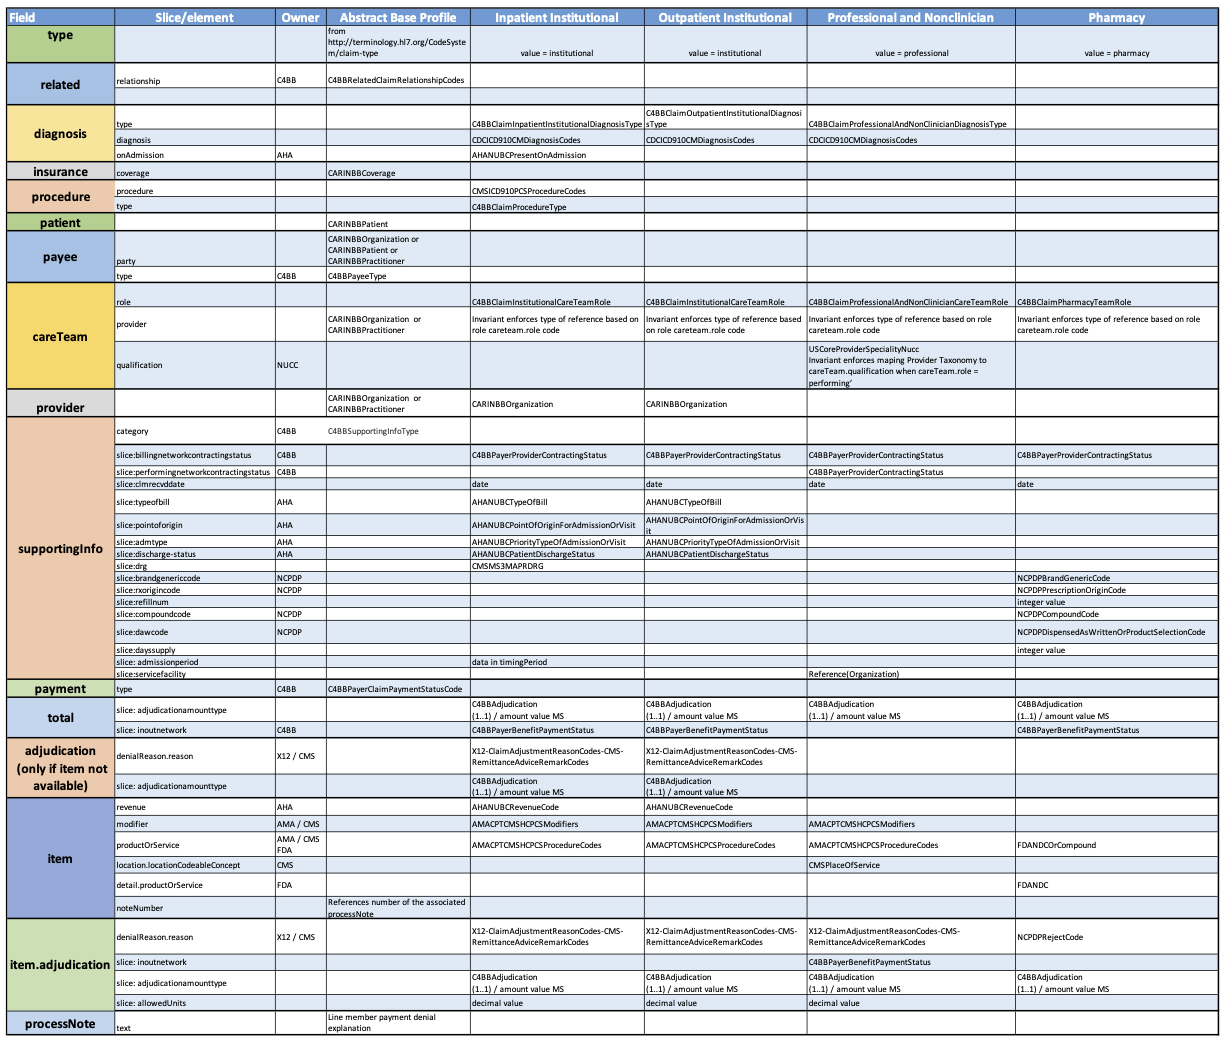
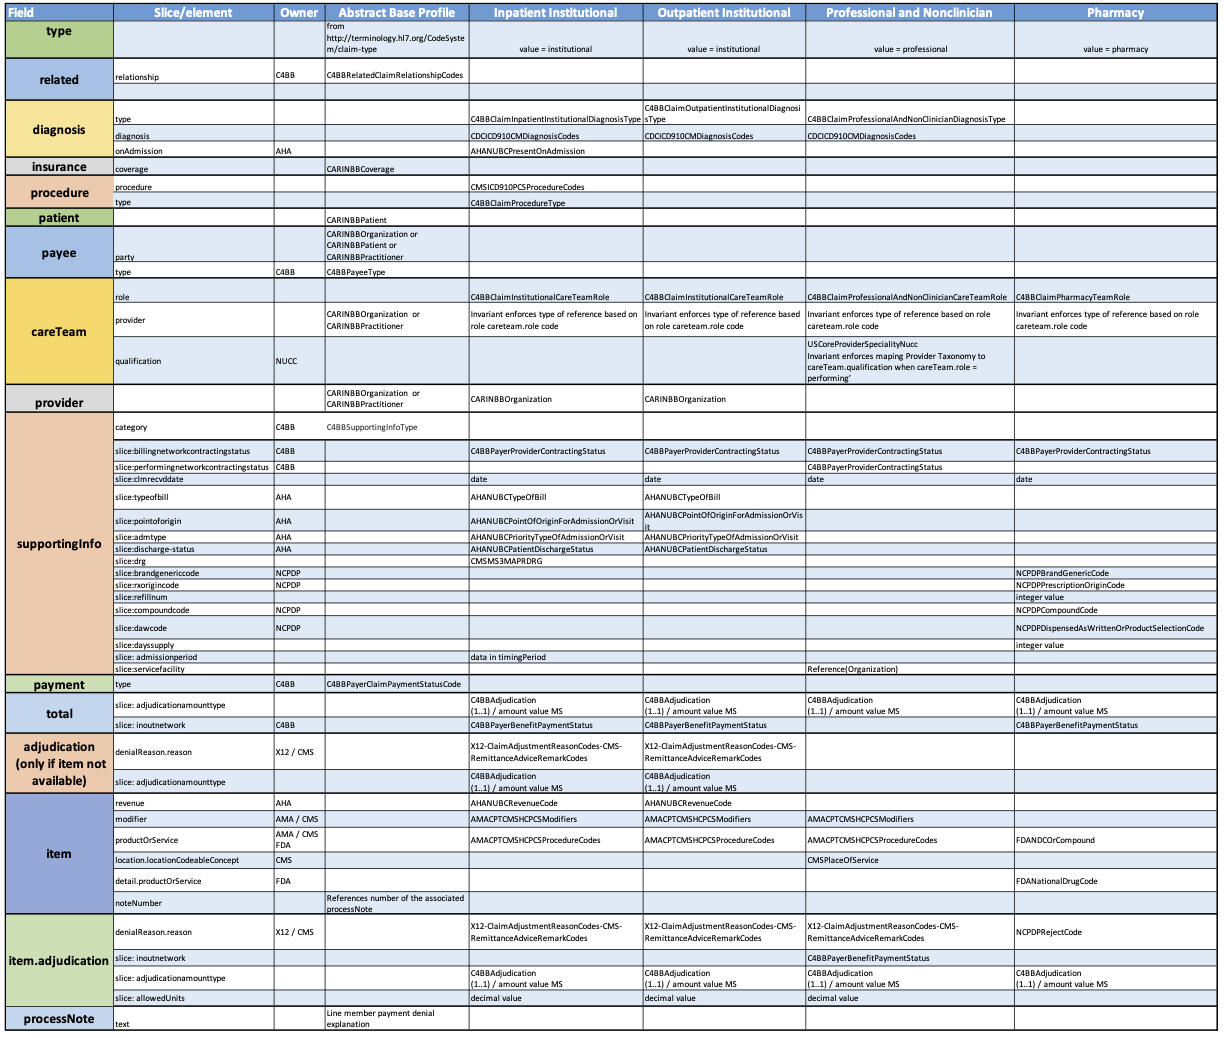
updated FDANDC->FDANationalDrugCode, updated EOBProfileComparison xlsx and png, EOBPharmacy

Changed region(s): [[0.0, 0.0, 1.0, 1.0]]

diff --git a/fsh/ig-data/input/pagecontent/index.md b/fsh/ig-data/input/pagecontent/index.md
@@ -16,7 +16,9 @@
 <li>Post-Connectathon changes -  Version 0.1.4 - September 15+, 2020</li>
 <ol>
 <li>C4BBPayeeType, C4BBRelationshipCodes, and other minor binding changes</li>
-<li>TBD</li>
+<li>Updated C4BB Codesystems, Codesystem STubs, and ValueSets</li>
+<li>Updated EOBComparison charts</li>
+<li>New examples from Onyx and UPMC (not yet validating)</li>
 </ol>
 <li>Interim Version 0.1.3 - September 8, 2020</li>
 <ol>
